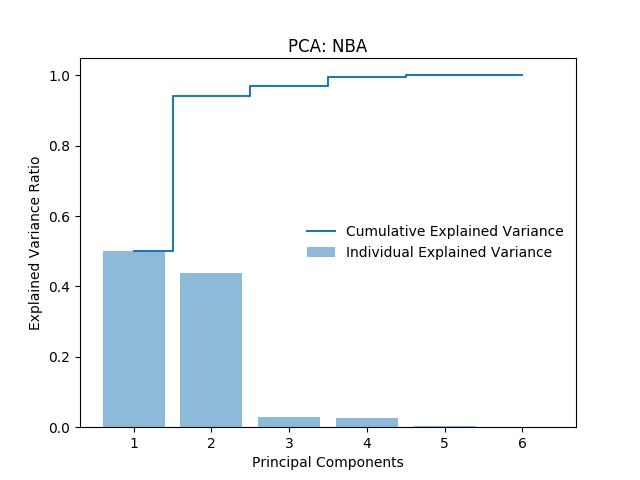
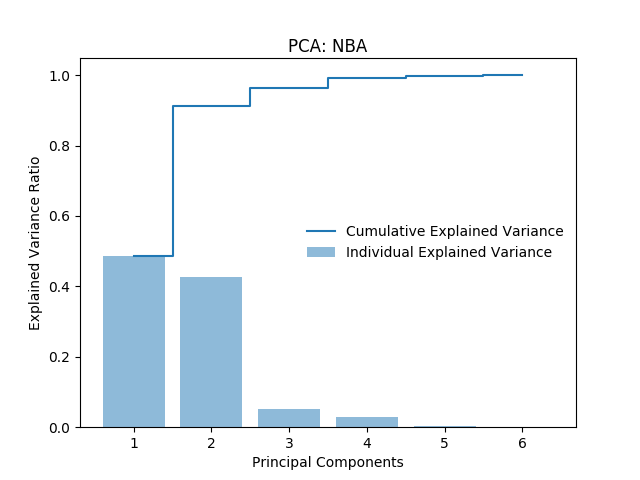
updated

diff --git a/Assignment3/main.py b/Assignment3/main.py
@@ -21,8 +21,9 @@ from sklearn.preprocessing import Imputer, LabelEncoder, StandardScaler, MinMaxS
 from sklearn.model_selection import train_test_split
 
 from sklearn.mixture import GaussianMixture, GMM
-from sklearn.decomposition import PCA
-
+from sklearn.decomposition import PCA, FastICA
+from sklearn.random_projection import GaussianRandomProjection
+from sklearn.discriminant_analysis import LinearDiscriminantAnalysis
 
 def run_and_plot():
     dh = data_helper()
@@ -184,10 +185,19 @@ def nba_dim_reduce():
     
     X_train, X_test, y_train, y_test = train_test_split(x, y, test_size=0.7, random_state=0)
     
-    df2 = pd.DataFrame(X_train)
-    df2.columns = x_col_names
+    dfx = pd.DataFrame(X_train)
+    dfx.columns = x_col_names
     
-    gen_pca_plots(df2, 'output_dim_reduce_nba', 'NBA', df2.shape[1])
+    dfy = pd.DataFrame(y_train)
+    dfy.columns = ['SHOT_RESULT_ENC']
+    
+    dfxt = pd.DataFrame(X_test)
+    dfxt.columns = x_col_names
+    
+    dfyt = pd.DataFrame(y_test)
+    dfyt.columns = ['SHOT_RESULT_ENC']
+    
+    gen_dim_reduce_plots(dfx, dfy, dfxt, dfyt, 'output_dim_reduce_nba', 'NBA', dfx.shape[1])
     
 def wine_dim_reduce():
     '''   
@@ -209,21 +219,38 @@ def wine_dim_reduce():
     
     df = pd.read_csv('./data/winequality-red.csv', sep=';')
     
-    df = df.dropna(how='all', inplace=True)
+    df.dropna(how='all', inplace=True)
+    
+    split = df['quality'].median()
+    df['quality_2'] = df['quality']
+    
+    # group the quality into binary good or bad
+    df.loc[(df['quality'] >= 0) & (df['quality'] < split), 'quality_2'] = 0
+    df.loc[(df['quality'] >= split), 'quality_2'] = 1
     
     
     x_col_names = ['fixed acidity', 'citric acid', 'alcohol', 'residual sugar', 'chlorides', 'volatile acidity', 'sulphates', 'pH'] 
 
-    y = df.loc[:,'quality'].values
+    y = df.loc[:,'quality_2'].values
     df = df.drop('quality', 1)
+    df = df.drop('quality_2', 1)
     x = df.values
     
     X_train, X_test, y_train, y_test = train_test_split(x, y, test_size=0.3, random_state=0)
     
-    df2 = pd.DataFrame(X_train)
-    df2.columns = df.columns
+    dfx = pd.DataFrame(X_train)
+    dfx.columns = df.columns
     
-    gen_pca_plots(df2, 'output_dim_reduce_wine', 'wine', df2.shape[1])
+    dfy = pd.DataFrame(y_train)
+    dfy.columns = ['quality']
+    
+    dfxt = pd.DataFrame(X_test)
+    dfxt.columns = df.columns
+    
+    dfyt = pd.DataFrame(y_test)
+    dfyt.columns = ['quality']
+    
+    gen_dim_reduce_plots(dfx, dfy, dfxt, dfyt, 'output_dim_reduce_wine', 'wine', dfx.shape[1])
     
     
     
@@ -402,10 +429,22 @@ def gen_cluster_plots(df, out_dir, max_clusters):
     
     
 
-def gen_pca_plots(df, out_dir, name, max_clusters):
-    X_train = df.values
+def gen_dim_reduce_plots(dfx, dfy, dfxt, dfyt, out_dir, name, max_clusters):
+    X_train = dfx.values
     #X_train_scale = StandardScaler().fit_transform(X_train)
     X_train_minmax = MinMaxScaler().fit_transform(X_train)
+    
+    y_train = dfy.values
+    #X_train_scale = StandardScaler().fit_transform(X_train)
+    y_train_minmax = MinMaxScaler().fit_transform(y_train)
+    
+    X_test = dfxt.values
+    X_test_minmax = MinMaxScaler().fit_transform(X_test)
+    
+    y_test = dfyt.values
+    #X_train_scale = StandardScaler().fit_transform(X_train)
+    y_test_minmax = MinMaxScaler().fit_transform(y_test)
+    
     
     #explained_var_ratio = []
     
@@ -416,7 +455,7 @@ def gen_pca_plots(df, out_dir, name, max_clusters):
     ##
     ## PCA
     ##
-    pca = PCA(n_components=df.shape[1])
+    pca = PCA(n_components=dfx.shape[1], svd_solver='full')
     pca.fit(X_train_minmax)
     #X_train_pca = pca.transform(X_train_minmax)
     #explained_var_ratio.append(pca.explained_variance_ratio_)
@@ -467,6 +506,102 @@ def gen_pca_plots(df, out_dir, name, max_clusters):
     fn = './' + out_dir + '/' + name + '_pca_evr.png'
     plt.savefig(fn)
     plt.close('all')
+    
+    
+    
+    ##
+    ## ICA
+    ##
+    ica = FastICA(n_components=dfx.shape[1])
+    ica.fit(X_train_minmax)
+    X_train_ica = ica.transform(X_train_minmax)
+    #explained_var_ratio.append(pca.explained_variance_ratio_)
+    
+    '''
+    # ICA plot
+    plt.clf()
+    plt.cla()
+    fig, ax = plt.subplots()
+    
+    #for axis in [ax.xaxis, ax.yaxis]:
+    ax.xaxis.set_major_locator(ticker.MaxNLocator(integer=True))
+    
+    #rng = np.arange(1, ica.explained_variance_ratio_.shape[0]+1, 1)
+    
+    plt.bar(rng, pca.explained_variance_ratio_,
+            alpha=0.5, align='center',
+            label='Individual Explained Variance')
+    
+    plt.step(rng, np.cumsum(pca.explained_variance_ratio_),
+            where='mid', label='Cumulative Explained Variance')
+    
+    plt.legend(loc='best')
+    
+    t = 'ICA: ' + name
+    plt.title(t)
+    
+    plt.xlabel('Principal Components')
+    plt.ylabel('Explained Variance Ratio')
+    
+    fn = './' + out_dir + '/' + name + '_ica_evr.png'
+    plt.savefig(fn)
+    plt.close('all')
+    '''
+    
+
+    ##
+    ## Random Projection
+    ##
+    rp = GaussianRandomProjection(n_components=dfx.shape[1])
+    rp.fit(X_train_minmax)
+    X_train_rp = rp.transform(X_train_minmax)
+    X_train_rp.shape
+    
+    
+    
+    
+    ##
+    ## LDA
+    ##
+    lda = LinearDiscriminantAnalysis(n_components=dfx.shape[1])
+    lda.fit(X_train_minmax, y_train_minmax)
+    
+    score_ = lda.score(X_test_minmax, y_test_minmax)
+    
+    X_train_lda = lda.transform(X_train_minmax)
+    
+    #X_train_lda.shape
+    
+    # LDA plot
+    
+    plt.clf()
+    plt.cla()
+    fig, ax = plt.subplots()
+    
+    #for axis in [ax.xaxis, ax.yaxis]:
+    ax.xaxis.set_major_locator(ticker.MaxNLocator(integer=True))
+        
+    rng = np.arange(1, lda.explained_variance_ratio_.shape[0]+1, 1)
+    
+    plt.bar(rng, lda.explained_variance_ratio_,
+            alpha=0.5, align='center',
+            label='Individual Explained Variance')
+    
+    plt.step(rng, np.cumsum(lda.explained_variance_ratio_),
+            where='mid', label='Cumulative Explained Variance')
+    
+    plt.legend(loc='best')
+    
+    t = 'LDA: ' + name
+    plt.title(t)
+    
+    plt.xlabel('Components')
+    plt.ylabel('Explained Variance Ratio')
+    
+    fn = './' + out_dir + '/' + name + '_lda_evr.png'
+    plt.savefig(fn)
+    plt.close('all')
+    
     
     print('done ', name)
     
@@ -605,8 +740,8 @@ def gen_cluster_all_plots(df, out_dir, name, max_clusters):
 
 
 if __name__== '__main__':
-    wine_clusters()
-    nba_clusters()
+    #wine_clusters()
+    #nba_clusters()
     wine_dim_reduce()
     nba_dim_reduce()
     
